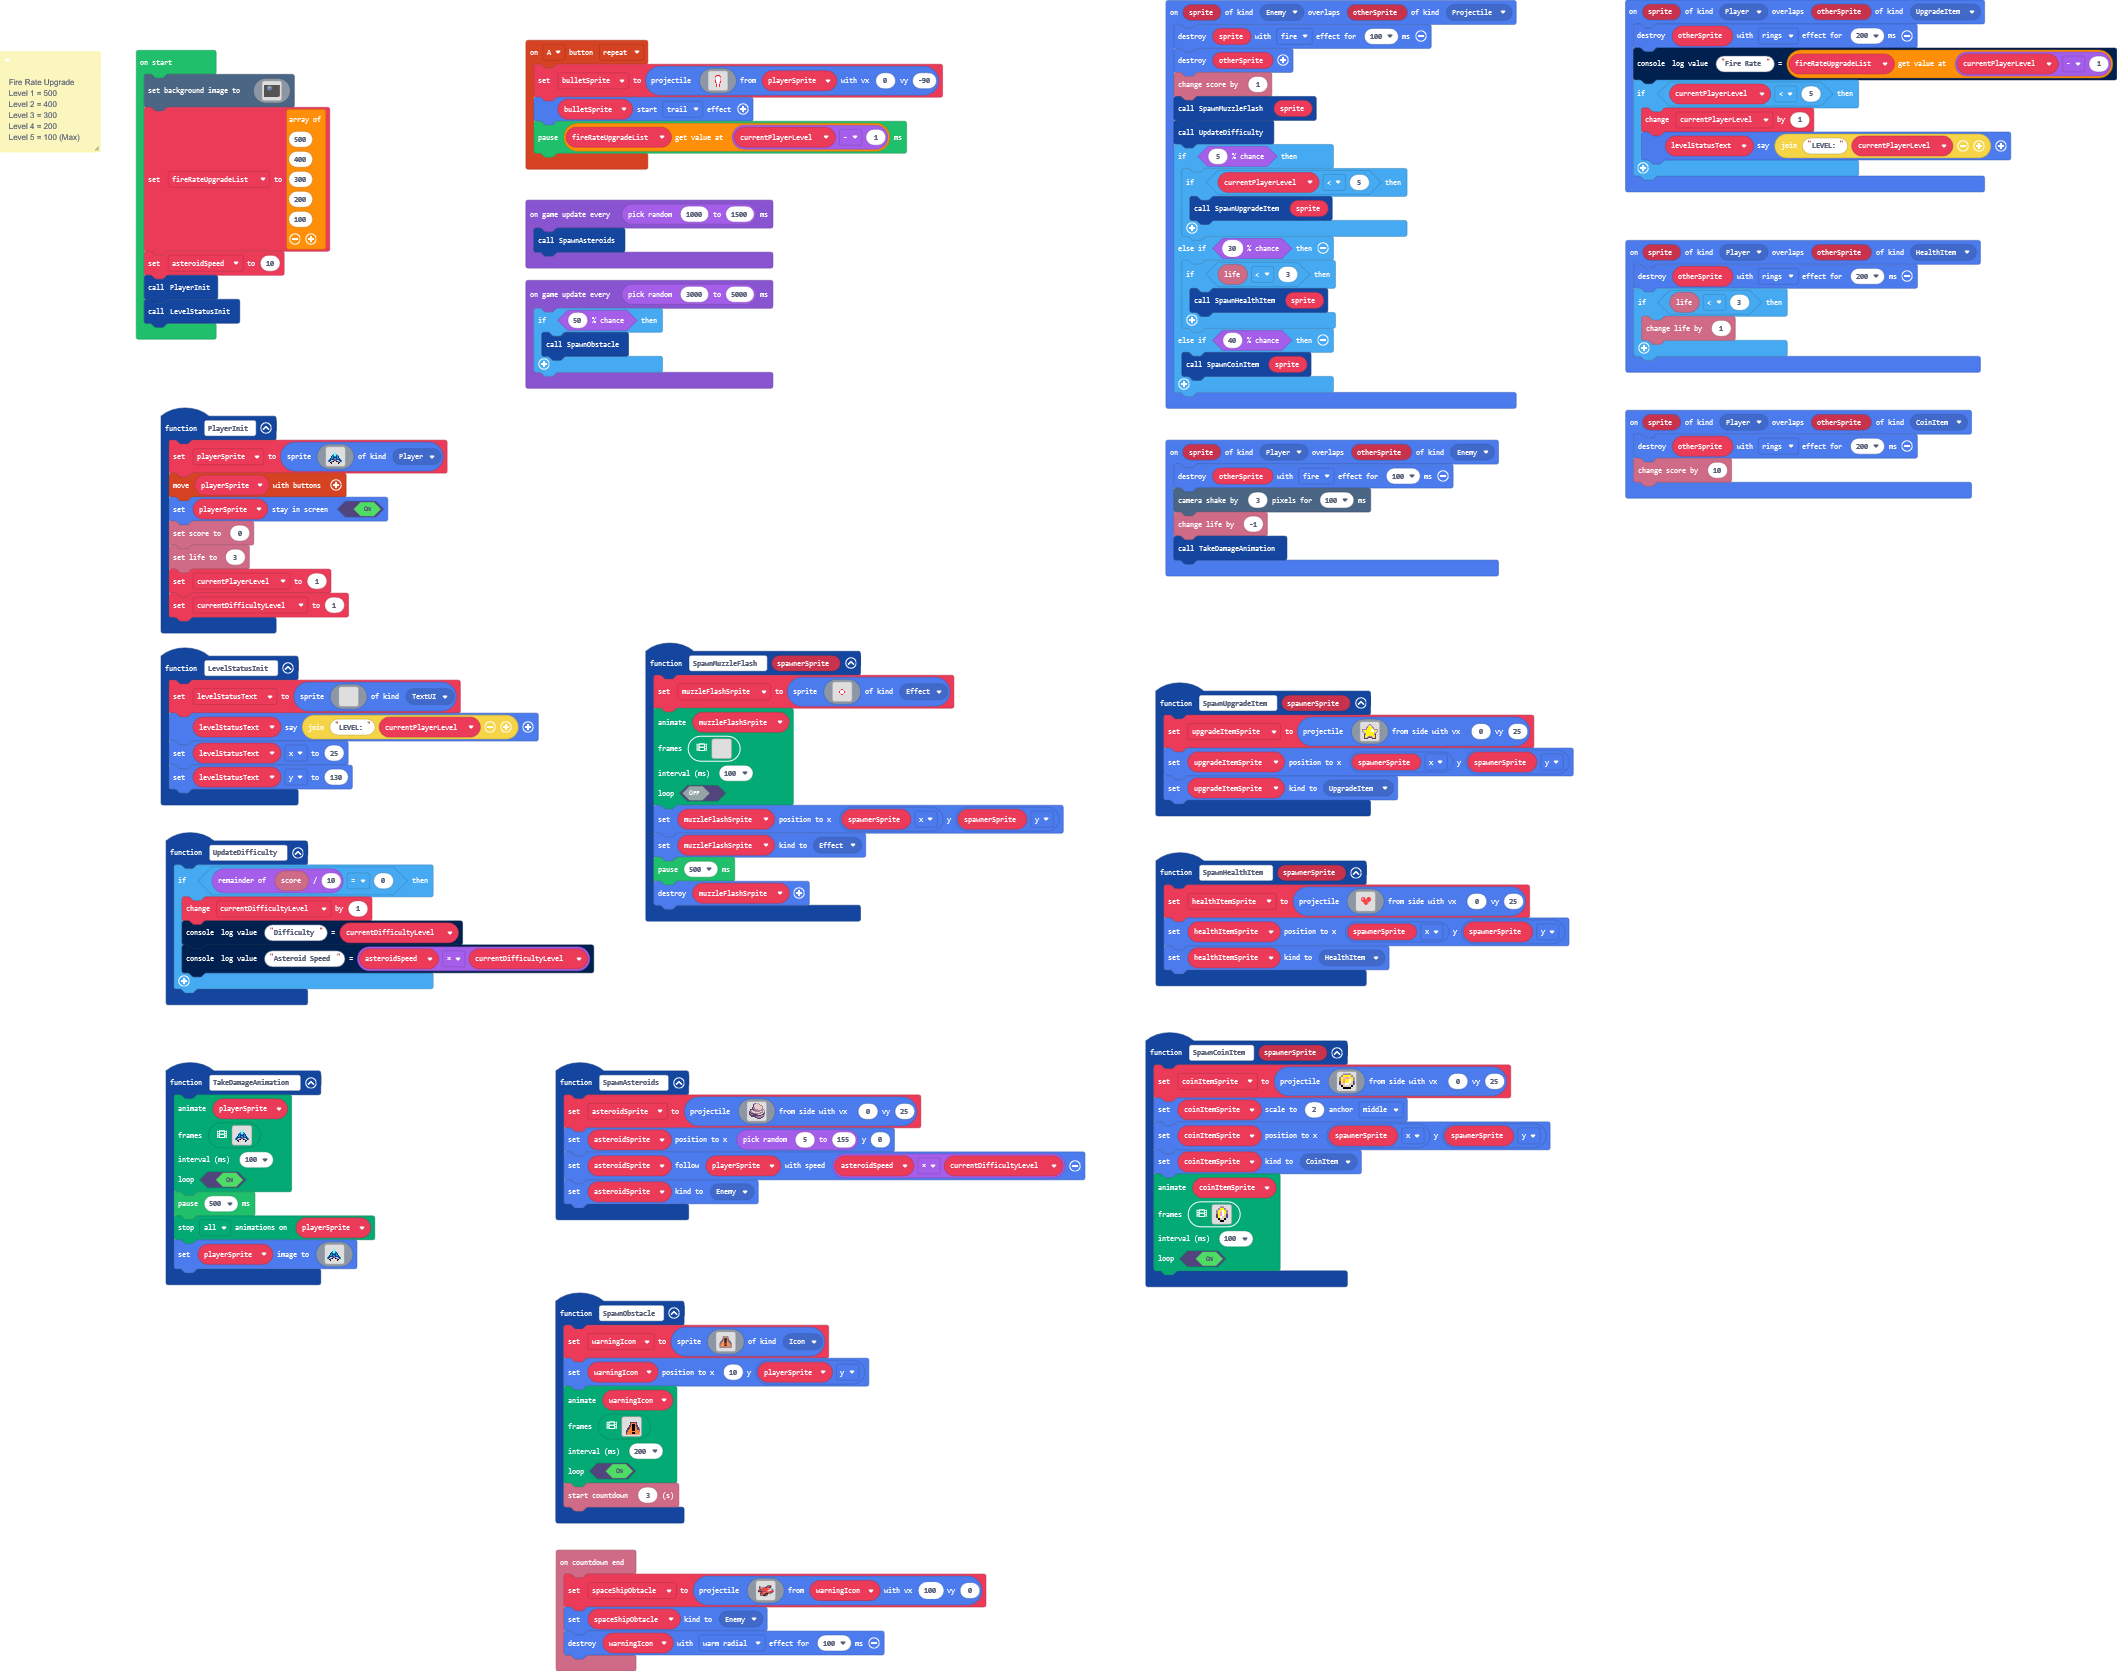
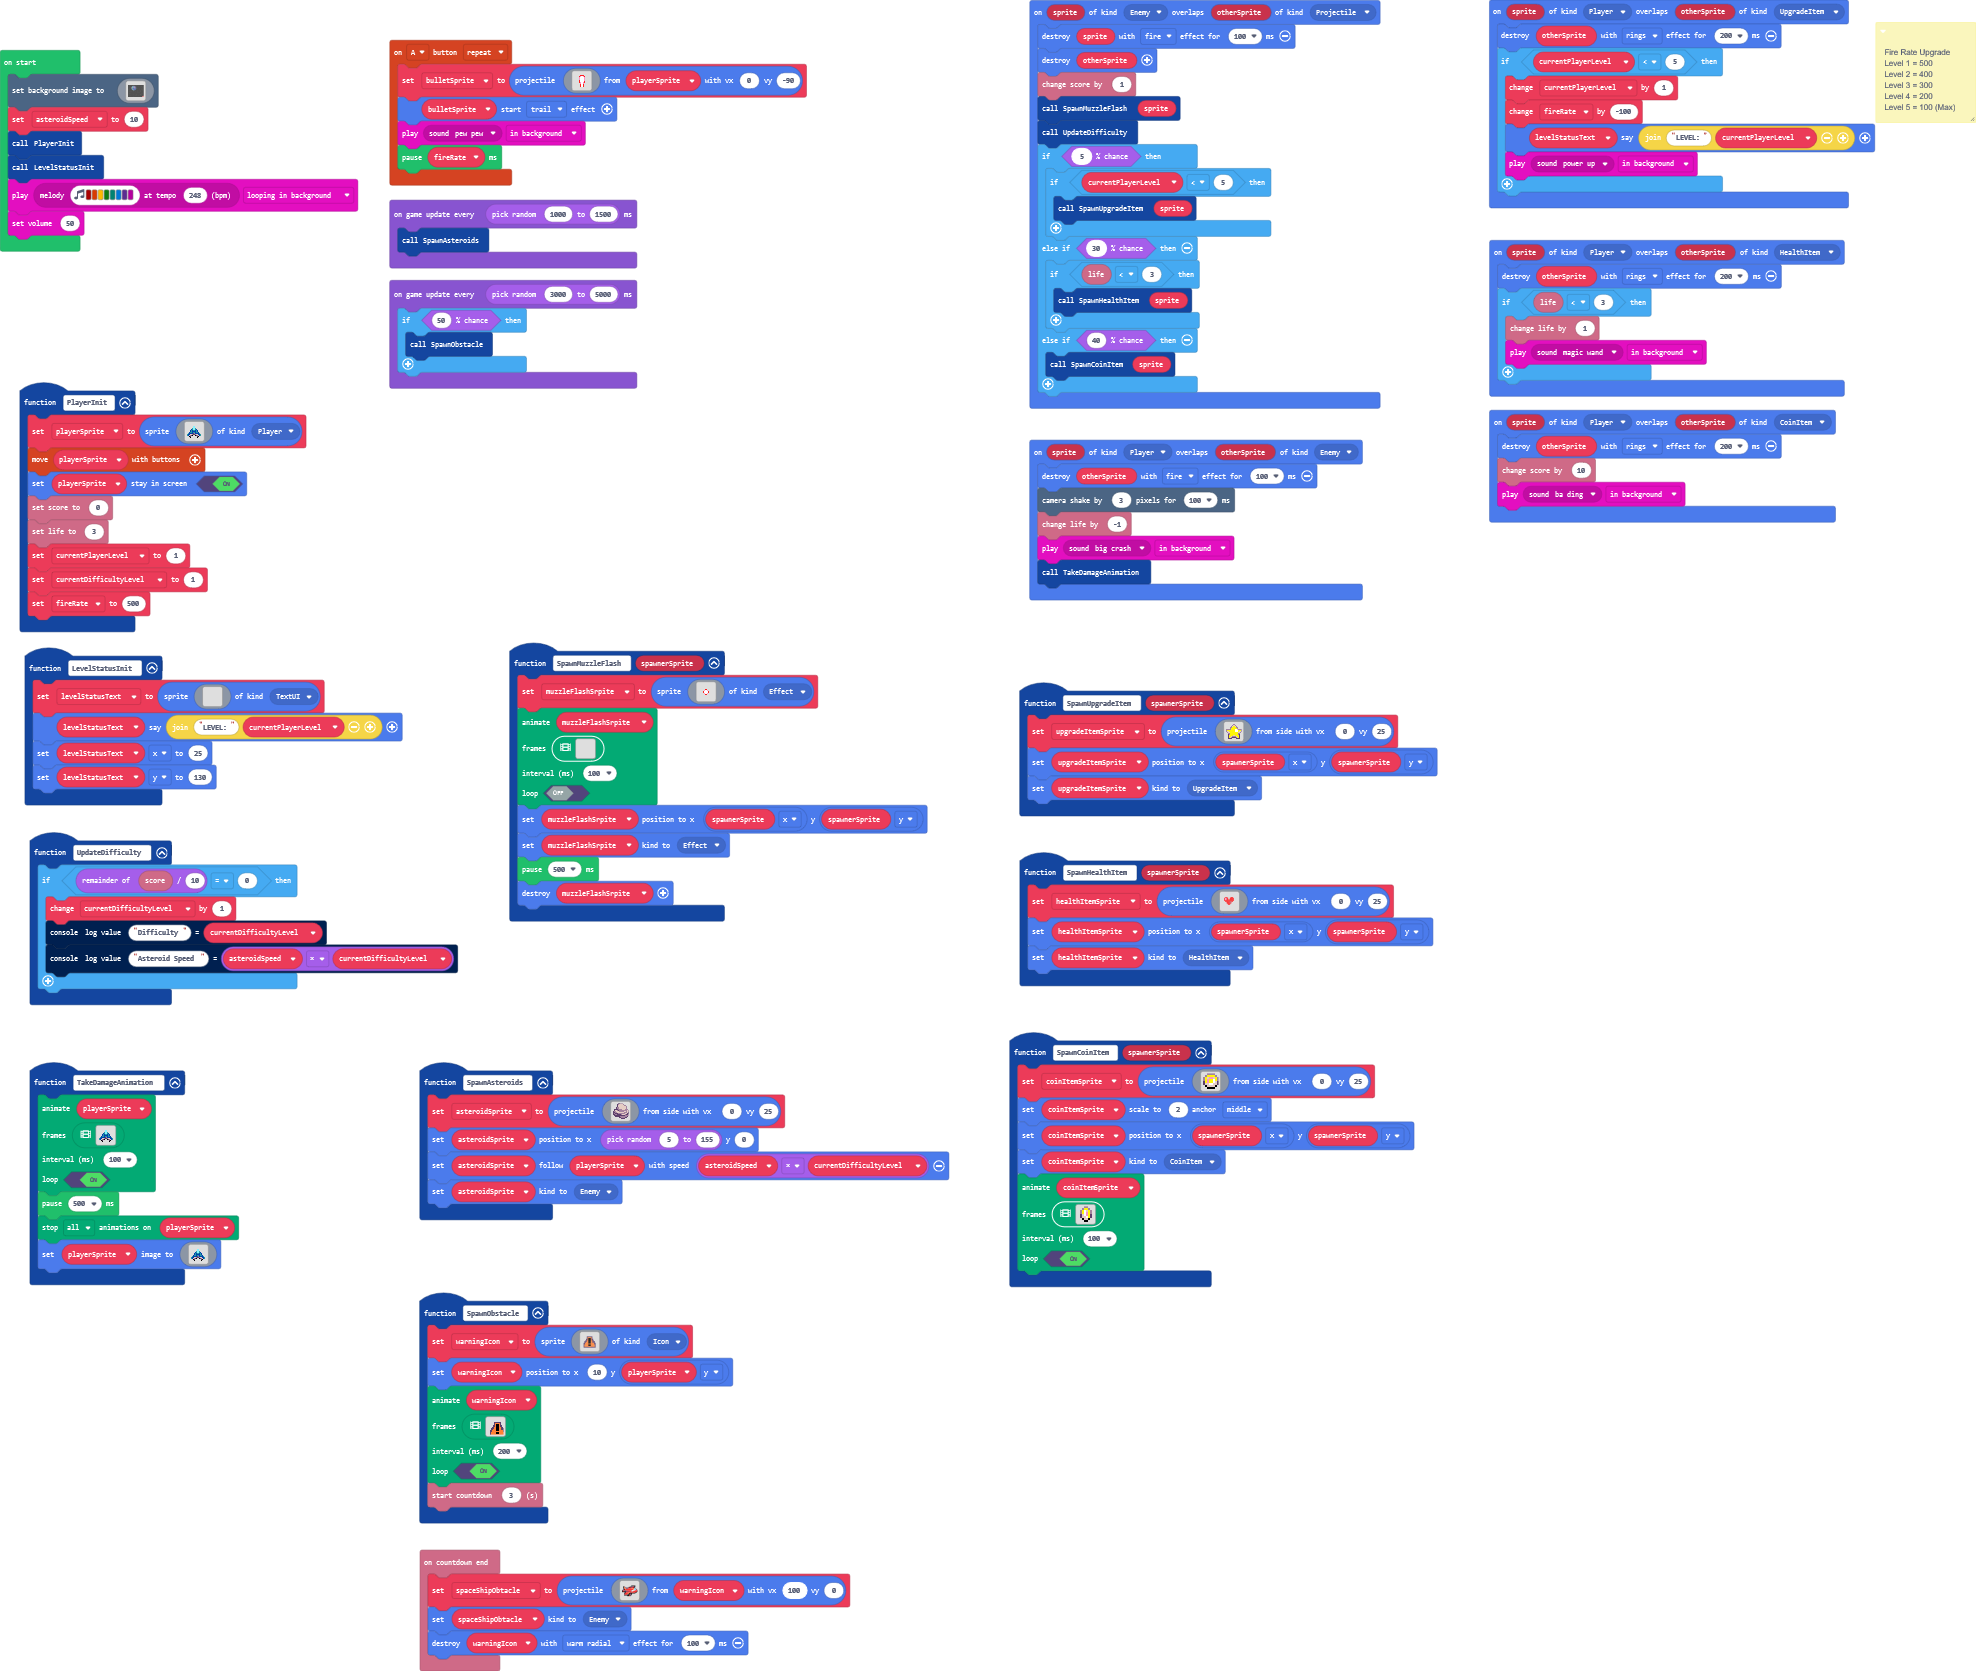
Add sound effect

diff --git a/main.ts b/main.ts
@@ -7,19 +7,6 @@ namespace SpriteKind {
     export const Effect = SpriteKind.create()
     export const Icon = SpriteKind.create()
 }
-/**
- * Fire Rate Upgrade
- * 
- * Level 1 = 500
- * 
- * Level 2 = 400
- * 
- * Level 3 = 300
- * 
- * Level 4 = 200
- * 
- * Level 5 = 100 (Max)
- */
 function SpawnHealthItem (spawnerSprite: Sprite) {
     healthItemSprite = sprites.createProjectileFromSide(img`
         ....................
@@ -252,6 +239,7 @@ sprites.onOverlap(SpriteKind.Player, SpriteKind.HealthItem, function (sprite, ot
     sprites.destroy(otherSprite, effects.rings, 200)
     if (info.life() < 3) {
         info.changeLifeBy(1)
+        music.play(music.melodyPlayable(music.magicWand), music.PlaybackMode.InBackground)
     }
 })
 function SpawnAsteroids () {
@@ -303,6 +291,7 @@ function PlayerInit () {
     info.setLife(3)
     currentPlayerLevel = 1
     currentDifficultyLevel = 1
+    fireRate = 500
 }
 info.onCountdownEnd(function () {
     spaceShipObtacle = sprites.createProjectileFromSprite(img`
@@ -371,12 +360,26 @@ function TakeDamageAnimation () {
     animation.stopAnimation(animation.AnimationTypes.All, playerSprite)
     playerSprite.setImage(assets.image`PlayerSpaceShip`)
 }
+/**
+ * Fire Rate Upgrade
+ * 
+ * Level 1 = 500
+ * 
+ * Level 2 = 400
+ * 
+ * Level 3 = 300
+ * 
+ * Level 4 = 200
+ * 
+ * Level 5 = 100 (Max)
+ */
 sprites.onOverlap(SpriteKind.Player, SpriteKind.UpgradeItem, function (sprite, otherSprite) {
     sprites.destroy(otherSprite, effects.rings, 200)
-    console.logValue("Fire Rate", fireRateUpgradeList[currentPlayerLevel - 1])
     if (currentPlayerLevel < 5) {
         currentPlayerLevel += 1
+        fireRate += -100
         levelStatusText.sayText("LEVEL:" + currentPlayerLevel)
+        music.play(music.melodyPlayable(music.powerUp), music.PlaybackMode.InBackground)
     }
 })
 controller.A.onEvent(ControllerButtonEvent.Repeated, function () {
@@ -399,11 +402,13 @@ controller.A.onEvent(ControllerButtonEvent.Repeated, function () {
         . . . . . . . . . . . . . . . . 
         `, playerSprite, 0, -90)
     bulletSprite.startEffect(effects.trail)
-    pause(fireRateUpgradeList[currentPlayerLevel - 1])
+    music.play(music.melodyPlayable(music.pewPew), music.PlaybackMode.InBackground)
+    pause(fireRate)
 })
 sprites.onOverlap(SpriteKind.Player, SpriteKind.CoinItem, function (sprite, otherSprite) {
     sprites.destroy(otherSprite, effects.rings, 200)
     info.changeScoreBy(10)
+    music.play(music.melodyPlayable(music.baDing), music.PlaybackMode.InBackground)
 })
 function LevelStatusInit () {
     levelStatusText = sprites.create(img`
@@ -477,12 +482,14 @@ sprites.onOverlap(SpriteKind.Player, SpriteKind.Enemy, function (sprite, otherSp
     sprites.destroy(otherSprite, effects.fire, 100)
     scene.cameraShake(3, 100)
     info.changeLifeBy(-1)
+    music.play(music.melodyPlayable(music.bigCrash), music.PlaybackMode.InBackground)
     TakeDamageAnimation()
 })
 let bulletSprite: Sprite = null
 let levelStatusText: Sprite = null
 let warningIcon: Sprite = null
 let spaceShipObtacle: Sprite = null
+let fireRate = 0
 let currentPlayerLevel = 0
 let playerSprite: Sprite = null
 let asteroidSprite: Sprite = null
@@ -492,7 +499,6 @@ let coinItemSprite: Sprite = null
 let currentDifficultyLevel = 0
 let healthItemSprite: Sprite = null
 let asteroidSpeed = 0
-let fireRateUpgradeList: number[] = []
 scene.setBackgroundImage(img`
     ffffffffffffffffffffffffffffffffffffffffffffffffffffffffffffffffffffffffffffffffffffffffffffffffffffffffffffffffffffffffffffffffffffffffffffffffffffffffffffffff
     ffffffffffffffffffffffffffffffffffffffffffffffffffffffffffffffffffffffffffffffffffffffffffffffffffffffffffffffffffffffffffffffffffffffffffffffffffffffffffffffff
@@ -615,16 +621,11 @@ scene.setBackgroundImage(img`
[2 lines of base64/hex data omitted]
     `)
-fireRateUpgradeList = [
-500,
-400,
-300,
-200,
-100
-]
 asteroidSpeed = 10
 PlayerInit()
 LevelStatusInit()
+music.play(music.stringPlayable("C5 B A G F E D C ", 248), music.PlaybackMode.LoopingInBackground)
+music.setVolume(50)
 game.onUpdateInterval(randint(1000, 1500), function () {
     SpawnAsteroids()
 })
